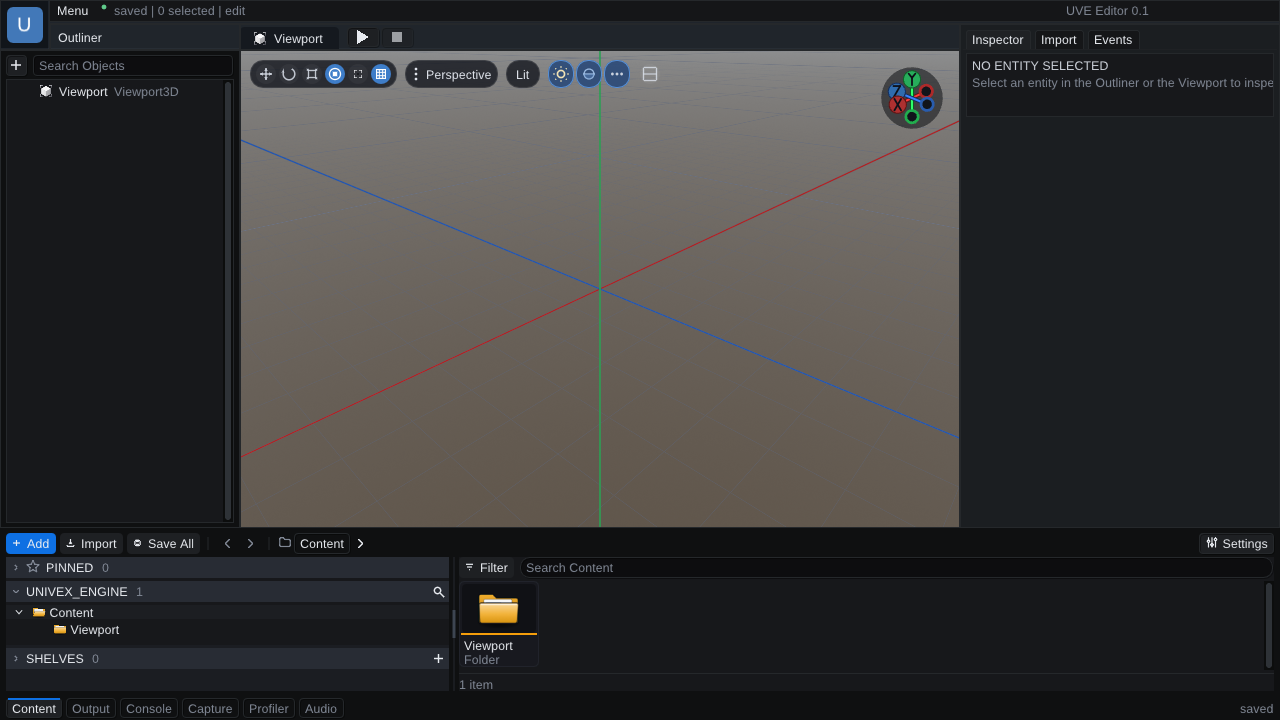
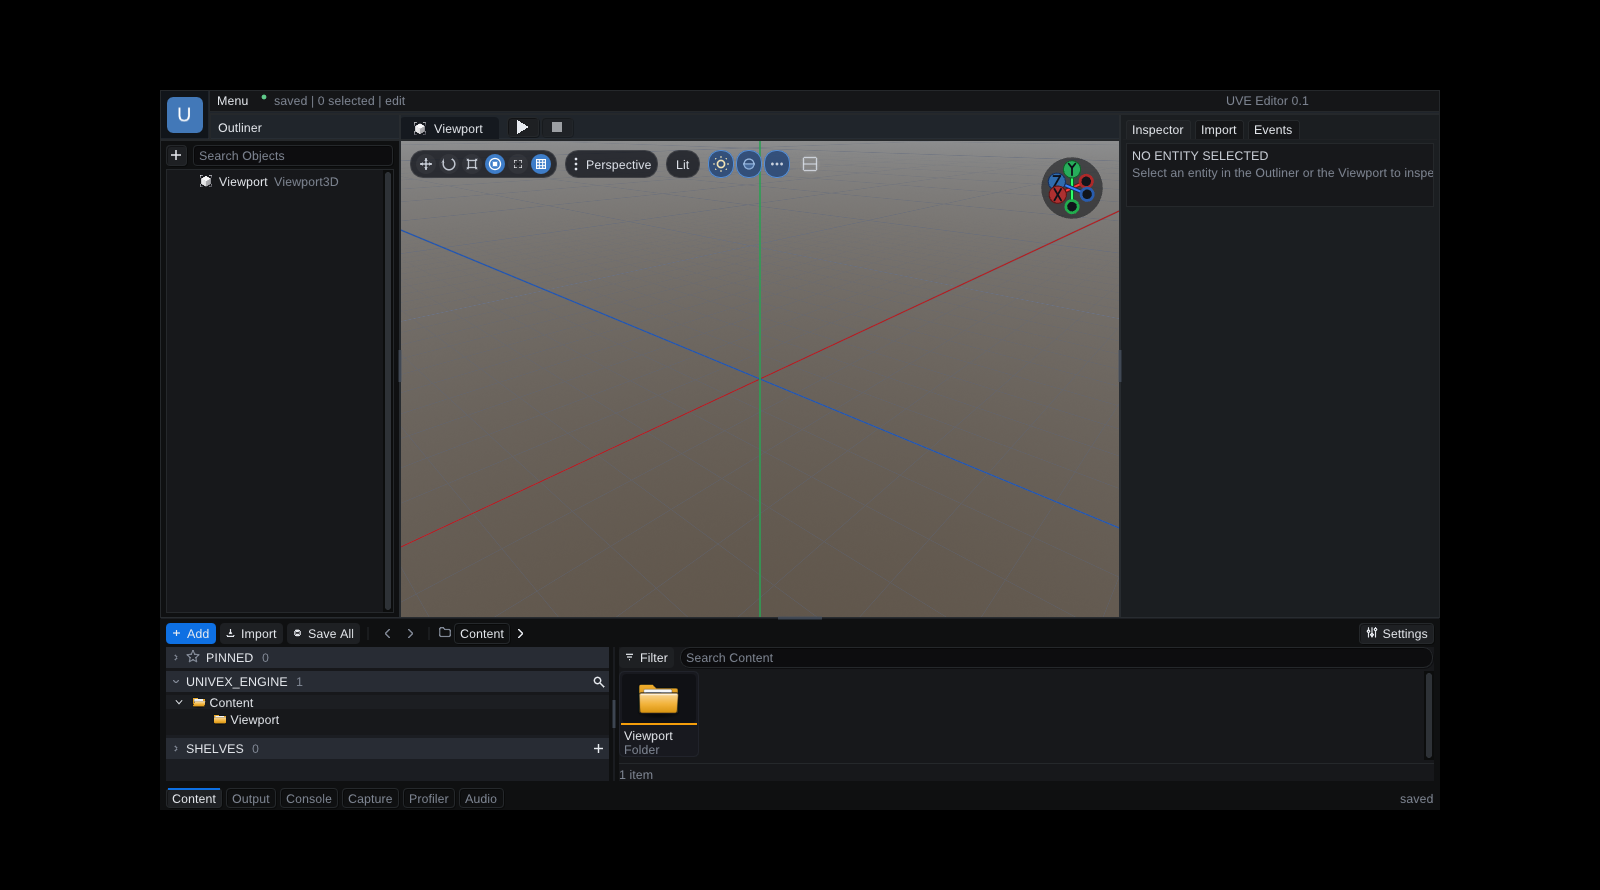
fix(editor): resolve level editor panel resizing and entity editor return-to-level lifecycle

diff --git a/Engine/Editor/EditorCore/Internal/editor_entity_editor_uve.cpp b/Engine/Editor/EditorCore/Internal/editor_entity_editor_uve.cpp
@@ -66,12 +66,16 @@ Scene::EntityUVE EditorUVE::LoadEntityIntoDocumentUVE(const Asset::AssetGuidUVE 
 }
 
 bool EditorUVE::OpenEntityEditorUVE(const std::filesystem::path& assetPath) {
-    if (m_entityEditSession.has_value()) {
-        return m_entityEditSession->assetPath == assetPath;
+    if (m_entityEditSession.has_value() && m_entityEditSession->assetPath == assetPath) {
+        m_entityEditSession->focusPending = true;
+        return true;
     }
     std::error_code error;
     if (m_state != EditorStateUVE::Running || m_playModeState != EditorPlayModeStateUVE::Edit ||
         !IsAuthoringCommandAllowedUVE() || !std::filesystem::is_regular_file(assetPath, error)) {
+        return false;
+    }
+    if (m_entityEditSession.has_value() && !CloseEntityEditorUVE(true)) {
         return false;
     }
     if (m_openUVScript.has_value() && m_openUVScript->IsDirtyUVE()) {
@@ -205,18 +209,12 @@ bool EditorUVE::CloseEntityEditorUVE(const bool save) {
         return false;
     }
     if (save && HasEntityEditorUnsavedChangesUVE() && !SaveEntityEditorUVE()) {
+        m_contentStatusMessage = "Could not save entity changes before closing.";
         return false;
     }
     CloseOpenUVScriptUVE();
     m_componentPropertyPreview.reset();
     Scene::IEntityManagerUVE& entityManager = m_services->GetEntityManagerUVE();
-    // Kept until the scene is back, so a failed restore can return to the entity instead of
-    // leaving nothing on screen.
-    const std::vector<Scene::EntityUVE> entityRoots = GetDocumentRootsUVE();
-    const std::optional<Scene::SceneSnapshotUVE> entitySnapshot =
-        entityRoots.empty() ? std::nullopt
-                            : m_services->GetSceneSerializerUVE().CaptureUVE(entityManager, entityRoots,
-                                                                              Asset::AssetKindUVE::Scene);
     const EntityEditSessionUVE session = std::move(*m_entityEditSession);
     m_entityEditSession.reset();
 
@@ -224,17 +222,15 @@ bool EditorUVE::CloseEntityEditorUVE(const bool save) {
     std::vector<Scene::EntityUVE> restored;
     if (!session.sceneWasEmpty) {
         restored = m_services->GetSceneSerializerUVE().RestoreUVE(entityManager, session.sceneSnapshot);
-        if (restored.empty()) {
-            if (entitySnapshot.has_value()) {
-                static_cast<void>(m_services->GetSceneSerializerUVE().RestoreUVE(entityManager, *entitySnapshot));
-            }
-            m_entityEditSession = session;
-            m_contentStatusMessage = "Could not bring the scene back; the entity stays open.";
-            InvalidateHierarchyFilterCacheUVE();
-            return false;
-        }
     }
-    RestoreSelectionUVE(ResolveSelectionPathsUVE(session.selectionBefore, restored));
+    if (restored.empty()) {
+        // Fallback recovery: Ensure the main level editor scene and viewport layout are fully restored
+        static_cast<void>(EnsureDocumentSceneRootUVE());
+        static_cast<void>(EnsureDocumentLayoutUVE());
+        m_contentStatusMessage = "Returned to Level Editor.";
+    } else {
+        RestoreSelectionUVE(ResolveSelectionPathsUVE(session.selectionBefore, restored));
+    }
     m_sceneDirty = session.sceneDirtyBefore;
     ClearHistoryUVE();
     if (m_simulationControl != nullptr && session.simulationBefore.has_value()) {
@@ -260,8 +256,8 @@ bool EditorUVE::CloseEntityEditorUVE(const bool save) {
         if (refreshed > 0U) {
             m_sceneDirty = true;
             InvalidateHierarchyFilterCacheUVE();
-            m_contentStatusMessage = "Updated " + std::to_string(refreshed) + " placed " +
-                                     (refreshed == 1U ? "copy" : "copies") + " of " +
+            m_contentStatusMessage = "Applied changes to Level Editor: updated " + std::to_string(refreshed) +
+                                     " placed " + (refreshed == 1U ? "copy" : "copies") + " of " +
                                      session.assetPath.filename().string() + " in the scene.";
         }
     }
@@ -780,11 +776,22 @@ void EditorUVE::DrawEntityEditorWindowUVE() {
     }
     ImGui::EndDisabled();
     ImGui::SameLine();
-    if (ImGui::Button("Close / Back to Level (Esc)") || ImGui::IsKeyPressed(ImGuiKey_Escape)) {
-        static_cast<void>(CloseEntityEditorUVE(false));
+    if (ImGui::Button("Save & Back to Level")) {
+        static_cast<void>(CloseEntityEditorUVE(true));
+    }
+    if (ImGui::IsItemHovered(ImGuiHoveredFlags_DelayShort)) {
+        ImGui::SetTooltip("Save and apply all entity changes to the main Level Editor");
+    }
+    ImGui::SameLine();
+    if (ImGui::Button("Back to Level (Esc)") || ImGui::IsKeyPressed(ImGuiKey_Escape)) {
+        if (unsaved) {
+            session.confirmClose = true;
+        } else {
+            static_cast<void>(CloseEntityEditorUVE(false));
+        }
     }
     if (ImGui::IsItemHovered(ImGuiHoveredFlags_AllowWhenDisabled | ImGuiHoveredFlags_DelayShort)) {
-        ImGui::SetTooltip("Throw away the changes since the last save");
+        ImGui::SetTooltip("Return to the main Level Editor (prompts to save if there are unsaved changes)");
     }
     ImGui::SameLine();
     ImGui::TextDisabled("|");
@@ -934,7 +941,9 @@ void EditorUVE::DrawEntityEditorWindowUVE() {
     }
     ImGui::End();
     if (closeNow) {
-        static_cast<void>(CloseEntityEditorUVE(saveFirst));
+        if (!CloseEntityEditorUVE(saveFirst)) {
+            static_cast<void>(CloseEntityEditorUVE(false));
+        }
     }
 }
 

diff --git a/Test/Editor/content_catalogue_editor_uve_tests.cpp b/Test/Editor/content_catalogue_editor_uve_tests.cpp
@@ -465,6 +465,50 @@ TEST(ContentCatalogueEditorUVETest, EntityEditorEditsTheAssetAloneAndGivesTheSce
     engine.Shutdown();
 }
 
+TEST(ContentCatalogueEditorUVETest, EntityEditorClonedAssetSwitchAndSafeReturnToLevel) {
+    const std::filesystem::path root = ::UVE::Tests::MakeTestCaseDirectoryUVE("entity_clone_switch");
+    const std::filesystem::path content = root / "Content";
+    std::filesystem::create_directories(content);
+
+    Core::EngineCoreUVE engine(MakeCatalogueEditorConfigUVE(root));
+    engine.Init();
+    ASSERT_TRUE(engine.Load());
+    {
+        EditorUVE editor(engine.GetServicesUVE(), root / "main.uvscene", 100U, &engine);
+        editor.InitUVE();
+        const auto created = editor.CreateContentCatalogueItemUVE("character", content);
+        ASSERT_TRUE(created.has_value());
+        const Scene::EntityUVE placed = editor.PlaceEntityAssetUVE(*created);
+        ASSERT_NE(placed, Scene::kInvalidEntityUVE);
+        ASSERT_TRUE(editor.SaveSceneUVE());
+
+        // Clone/duplicate the entity file in Content
+        const std::optional<std::filesystem::path> clonePath = editor.DuplicateContentFileUVE(*created);
+        ASSERT_TRUE(clonePath.has_value());
+
+        // Open the original entity
+        ASSERT_TRUE(editor.OpenEntityEditorUVE(*created));
+        EXPECT_TRUE(editor.IsEntityEditorOpenUVE());
+        EXPECT_EQ(editor.GetEntityEditorAssetPathUVE(), *created);
+
+        // Switch to the clone directly while the entity editor is open
+        ASSERT_TRUE(editor.OpenEntityEditorUVE(*clonePath));
+        EXPECT_TRUE(editor.IsEntityEditorOpenUVE());
+        EXPECT_EQ(editor.GetEntityEditorAssetPathUVE(), *clonePath);
+
+        // Save & return to the main level editor safely
+        ASSERT_TRUE(editor.CloseEntityEditorUVE(true));
+        EXPECT_FALSE(editor.IsEntityEditorOpenUVE());
+
+        // Verify the level editor scene is alive and document roots are valid
+        EXPECT_NE(editor.GetDocumentSceneRootUVE(), Scene::kInvalidEntityUVE);
+        EXPECT_FALSE(editor.GetDocumentRootsUVE().empty());
+
+        editor.ShutdownUVE();
+    }
+    engine.Shutdown();
+}
+
 TEST(ContentCatalogueEditorUVETest, EntityEditorCompilesScriptsListsSignalsAndGoesToProblems) {
     const std::filesystem::path root = ::UVE::Tests::MakeTestCaseDirectoryUVE("entity_editor_scripts");
     const std::filesystem::path content = root / "Content";

diff --git a/Engine/Editor/EditorCore/Internal/editor_panel_menu_dock_uve.cpp b/Engine/Editor/EditorCore/Internal/editor_panel_menu_dock_uve.cpp
@@ -29,6 +29,7 @@
 #include <vector>
 
 #include <imgui.h>
+#include <imgui_internal.h>
 
 #include "editor_chrome_layout_uve.h"
 #include "editor_color_field_uve.h"
@@ -612,15 +613,19 @@ void EditorUVE::DrawEditorChromeHandlesUVE() {
     constexpr ImGuiWindowFlags handleFlags =
         ImGuiWindowFlags_NoTitleBar | ImGuiWindowFlags_NoResize | ImGuiWindowFlags_NoMove |
         ImGuiWindowFlags_NoScrollbar | ImGuiWindowFlags_NoScrollWithMouse | ImGuiWindowFlags_NoCollapse |
-        ImGuiWindowFlags_NoSavedSettings | ImGuiWindowFlags_NoBringToFrontOnFocus | ImGuiWindowFlags_NoBackground |
-        ImGuiWindowFlags_NoFocusOnAppearing | ImGuiWindowFlags_NoDocking;
+        ImGuiWindowFlags_NoSavedSettings | ImGuiWindowFlags_NoBackground | ImGuiWindowFlags_NoDocking;
     ImGui::PushStyleVar(ImGuiStyleVar_WindowPadding, ImVec2{0.0F, 0.0F});
     ImGui::PushStyleVar(ImGuiStyleVar_WindowMinSize, ImVec2{1.0F, 1.0F});
-    const auto beginHandle = [](const char* const id, const ImVec2 pos, const ImVec2 size) {
+    const auto beginHandle = [mainViewport](const char* const id, const ImVec2 pos, const ImVec2 size) {
+        ImGui::SetNextWindowViewport(mainViewport->ID);
         ImGui::SetNextWindowPos(pos, ImGuiCond_Always);
         ImGui::SetNextWindowSize(size, ImGuiCond_Always);
         ImGui::SetNextWindowBgAlpha(0.0F);
-        return ImGui::Begin(id, nullptr, handleFlags);
+        const bool began = ImGui::Begin(id, nullptr, handleFlags);
+        if (began) {
+            ImGui::BringWindowToDisplayFront(ImGui::GetCurrentWindow());
+        }
+        return began;
     };
     const float totalWidth = mainViewport->WorkSize.x;
     const ImGuiIO& io = ImGui::GetIO();
